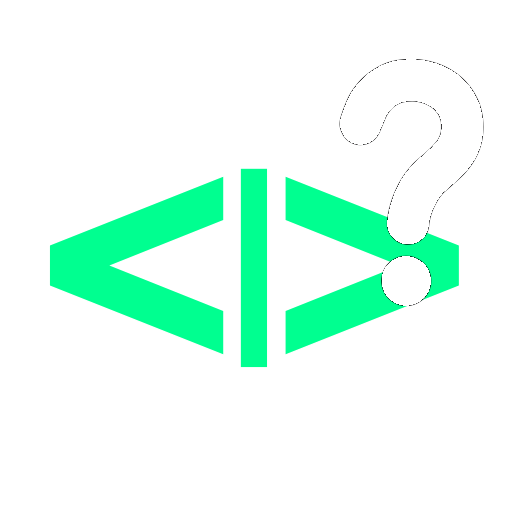
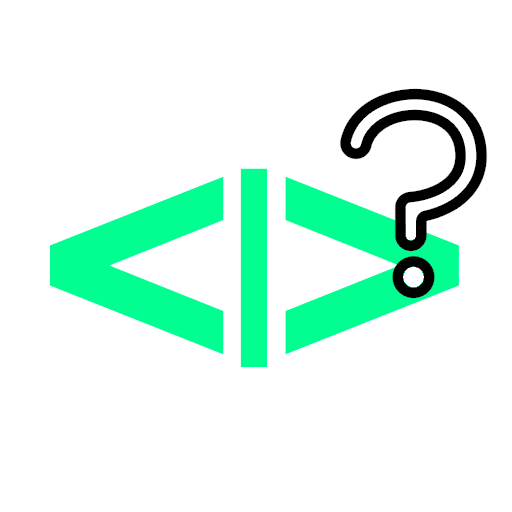
404 page

Changed region(s): [[0.6562, 0.1562, 0.9688, 0.625]]

diff --git a/404.html b/404.html
@@ -4,10 +4,10 @@
     <link rel="stylesheet" href="style.css">
 </head>
 <body>
-    <img src="viviquestionmark.png" alt="ViVi Question Mark">
+    <img src="viviquestionmark.png" alt="ViVi Question Mark" class="imagevivi">
     <h1 class="text1">Page not found!</h1>
     <div class="text2">The site configured at this address does not contain the requested file.</div>
-    <div class="text2">Go to our</div><a href="index.html" class="text2">home page</a><div class="text2">or try</div><a href="mailto:support@vivibot.online" class="text2">contact us.</a>
+    <div class="text2">Go to our home page or try contact us.</div>
 </body>
 <footer>
     <div class="separator"></div>
